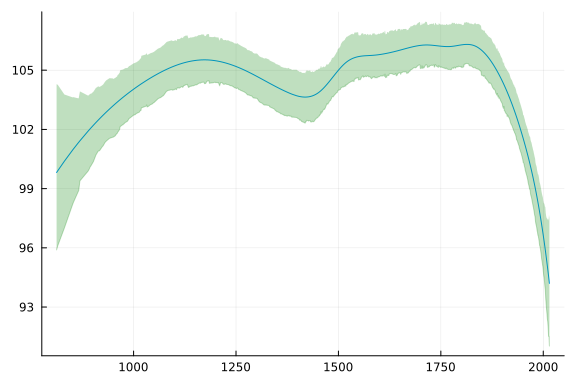
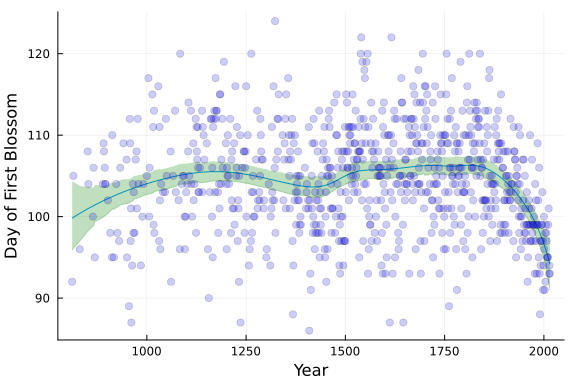
updating title

diff --git a/_posts/2023-06-21-gams-julia.md b/_posts/2023-06-21-gams-julia.md
@@ -1,7 +1,7 @@
 ---
-excerpt: "An exploration of Generalized Additive Models 'from scratch'"
+excerpt: "An exploration of GAMs 'from scratch'"
 layout: "posts"
-title: "GAMs in Julia"
+title: "Generalized Additive Models in Julia"
 date: 2023-06-21
 categories: "Bayes"
 tags:
@@ -577,8 +577,8 @@ function PartialDepPlot(x,pred)
 end
 
 # Plot the HDI
-PlotCherryData(alpha = 0.1)
 PartialDepPlot(x, pred_smooth)
+scatter!(x,y,color=:blue,xlabel="Year",ylabel="Day of First Blossom",legend=false,alpha=0.2)
 ~~~~~~~~~~~~~
 
 ![png](/assets/2023-06-21-gams-julia_files/2023-06-21-gams-julia_18_1.png)\ 
